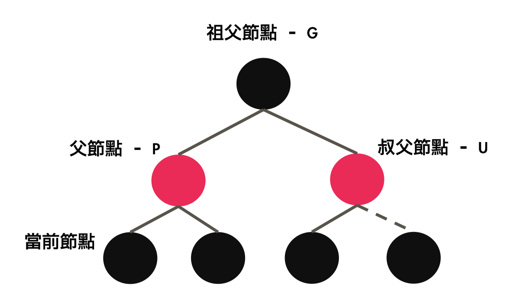
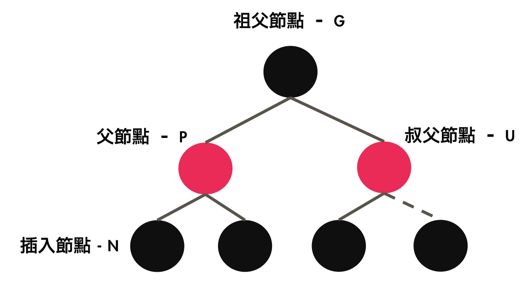
Updates assets/rbtree-3.png
Auto commit by GitBook Editor

Changed region(s): [[0.0311, 0.028, 0.9942, 0.951]]

diff --git a/1.4.1.1-rb-tree-insert.md b/1.4.1.1-rb-tree-insert.md
@@ -6,7 +6,7 @@
 
 在開始討論插入演算法之前, 先釐清節點之間的關係與簡稱:
 
-![](assets/rbtree-3.png)
+![](/assets/rbtree-3.png)
 
 插入新的節點, 通常會設置這個節點為紅色, 因為這樣可以降低違反紅黑規則的機率, 而插入節點後, 會有以下幾點的情境出現:
 
@@ -19,7 +19,9 @@
    ![](/assets/rbtree-5.png)
 
 5. 若插入節點的P節點是紅色的, 而U節點是黑色, 且插入節點是其P節點的右子節點, 而P節點是G節點的右子節點, 那麼: 把P節點變成黑色, G節點變為紅色, 然後對G節點做左旋的動作, 然後重新開始判斷
+
 6. 若插入節點的P節點是紅色的, 而U節點是黑色, 且插入節點是其P節點的右子節點, 而P節點是G節點的左子節點, 那麼: 把當前節點的P節點作為新的當前節點, 對新的當前節點進行左旋, 然後重新開始判斷
+
 7. 若插入節點的P節點是紅色的, 而U節點是黑色, 且插入節點是其P節點的左子節點, 而P節點是G節點的右子節點, 那麼: 把當前節點的P節點作為新的當前節點, 對新的當前節點進行右旋, 然後重新開始判斷
 
 
